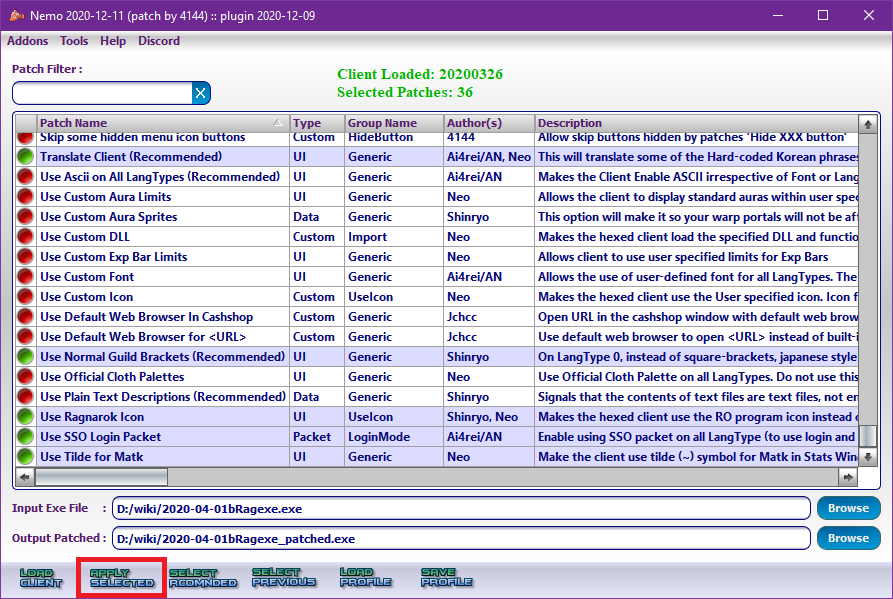
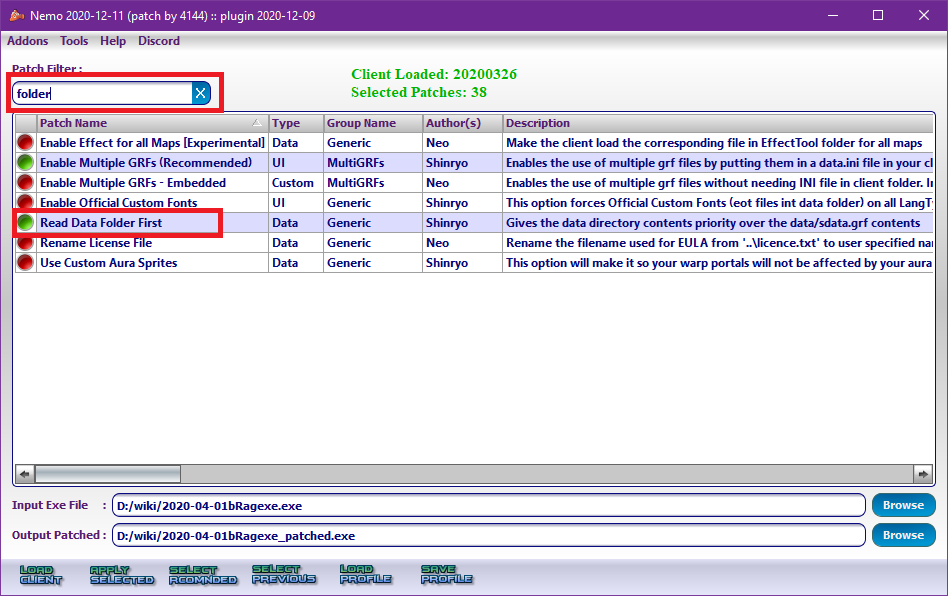
อัพเดท

diff --git a/wiki/09-ทดสอบเข้าเกมส์.md b/wiki/09-ทดสอบเข้าเกมส์.md
@@ -1,3 +1,45 @@
 ### ทดสอบเข้าเกมส์
 
-??
+**ต้องรันสิ่งต่อไปนี้ก่อน ถึงจะเข้าเกมส์ได้**{: style="color: red;" }
+
+> 1. laragon (database)
+> 2. เซิร์ฟเวอร์ (char,login,map server)
+
+**และอย่าลืม ไฟล์ clientinfo.xml ต้องตรงกับเซิร์ฟเวอร์**{: style="color: red;" }
+
+เพิ่มเติม อย่างลืมลงไฟล์แปลเกมส์ภาษาอังกฤษ ไม่งั้นจะเข้าเกมส์ไม่ได้ เพราะดิฟมาให้อ่านไฟล์แปล
+
+
+![](../assets/images/img/09/01.PNG)
+
+เข้า database จาก laragon แล้ว login จากนั้นหาตาราง (table) กรอบสีแดงที่ 1\
+เมื่อเจอแล้วให้กดที่กรอบสีแดงที่ 2
+
+![](../assets/images/img/09/02.PNG)
+
+ที่กรอบสีที่ 1 ให้ใส่ id ในกรอบที่ 2 password และ กรอบที่ 3 ใส่ "99" จากนั้นที่กรอบสีที่ 4 ให้กดปุ่มเครื่องหมายถูกต้อง
+เพื่อ **เป็นการสร้าง id เข้าเกมส์ id แรก**{: style="color: red;" }
+
+**สามารถไปปรับ conf ให้ทำการอ่านวิธีสมัครโดยใช้ _M/_F ได้**{: style="color: yellow;" }
+
+![](../assets/images/img/09/03.PNG)
+
+หากทำถูกต้องจะได้ดังภาพ ออกนั้นให้ออกโปรแกรม heidiSQL ได้เลย
+
+![](../assets/images/img/09/04.PNG)
+
+เข้าเกมส์ผ่านไคลเอ็นท์ที่ดิฟมา และ login
+
+![](../assets/images/img/09/05.PNG)
+
+ทำการสร้างตัวละคร
+
+![](../assets/images/img/09/06.PNG)
+
+ตัวละครชื่อภาษาไทย
+
+![](../assets/images/img/09/07.PNG)
+
+ภาพในเกมส์ (วาปออกมาจากเรือล้ม)
+
+เป็นอันเสร็จในในหัวข้อนี้

diff --git a/wiki/08-ดิฟตัวเกมส์.md b/wiki/08-ดิฟตัวเกมส์.md
@@ -41,14 +41,21 @@
 
 **หลังจาก OK จนหมด สามารถเพิ่มหรือลบอปชั่นของไคลเอ็นท์ได้ตามใจชอบ บางอย่างอาจจะ Error**{: style="color: green;" }
 
+**สำคัญ**{: style="color: red;" }
+
 ![](../assets/images/img/08/08.PNG){:width="75%"}
 
-กดปุ่ม "apply selected" เพื่อทำการดิฟตัวเข้าเกมส์
+ในกรอบสีแดงด้านบนให้พิมพ์ว่า "folder" จากนั้น ที่กรอบสีแดงด้านล่าง ให้ติ๊กเลือกให้เป็นสีเขียวตามรูป
+
 
 ![](../assets/images/img/08/09.PNG){:width="75%"}
 
+กดปุ่ม "apply selected" เพื่อทำการดิฟตัวเข้าเกมส์
+
+![](../assets/images/img/08/10.PNG){:width="75%"}
+
 การดิฟตัวเข้าเกมส์เสร็จสิ้น
 
-![](../assets/images/img/08/10.PNG)
+![](../assets/images/img/08/11.PNG)
 
 ในกรอบสีแดงคือ ตัวเข้าเกมส์ที่เราได้ทำการดิฟออกมาเมื่อสักครู่นี้เอง สามารถนำไปใช้งานได้
